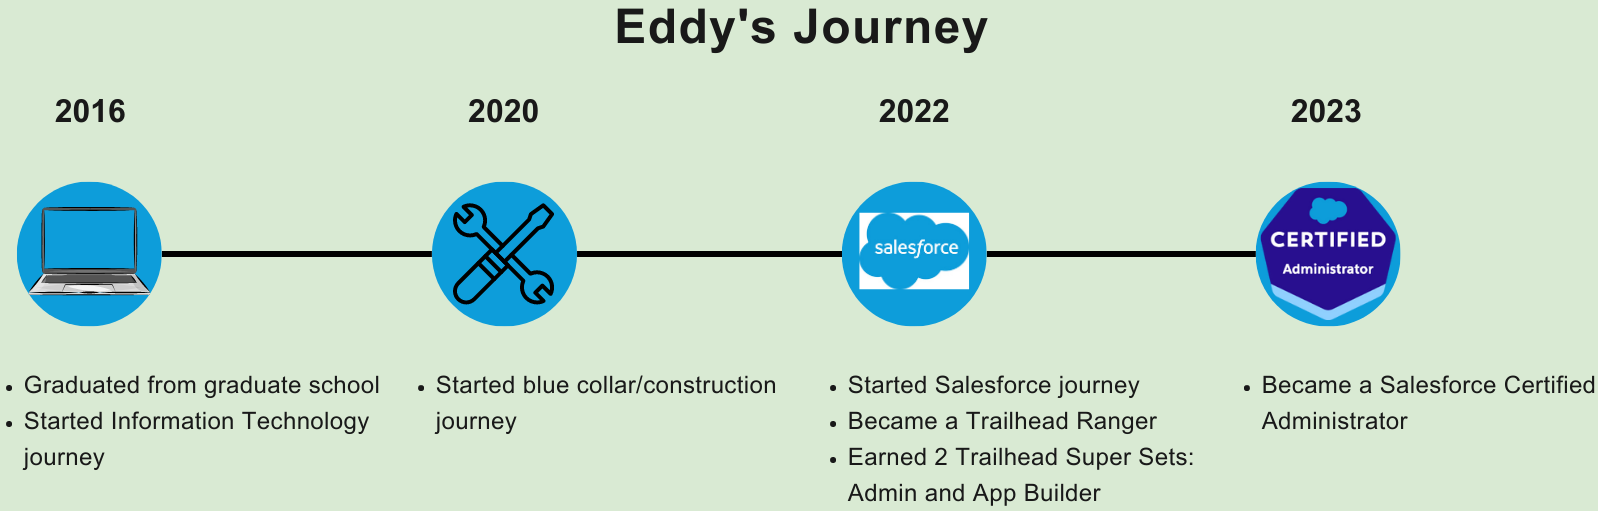
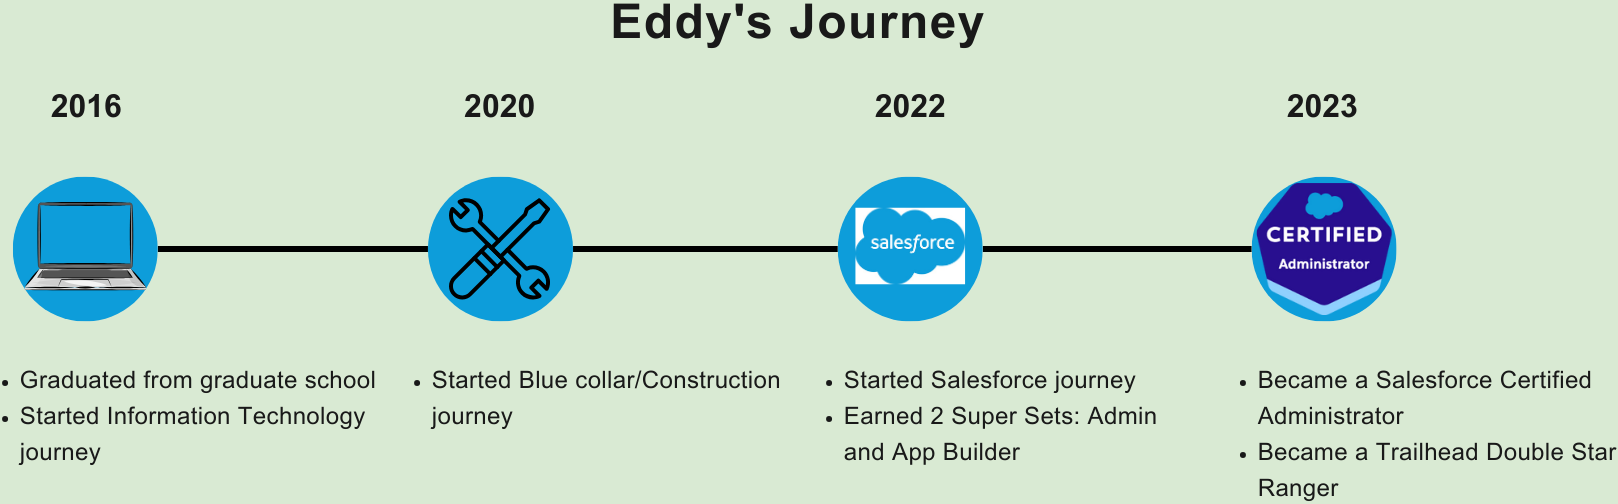
update Superbadge

diff --git a/force-app/main/default/lwc/education/education.html b/force-app/main/default/lwc/education/education.html
@@ -26,7 +26,7 @@
             </section>
             <div class="border-bottom"></div>
             <section>
-                <h3 class="collapsibleHeading">2. Superbadges&mdash;31</h3>
+                <h3 class="collapsibleHeading">2. Superbadges&mdash;34</h3>
                 <div class="collapsibleContent">
                     <p class="slds-text-align_left"><a href="https://salesforce.com/trailblazer/ChanEddyW" target="_blank" rel="noopener noreferrer">App Builder Super Set&mdash;13 <img src={iconURL_URLExternal} alt="External Link" aria-hidden="true"></a></p>
                     <div class="container-img">
@@ -70,8 +70,11 @@
                         <img src={imageURL_badgeTrailheadSuperbadge002} alt="Superbadge" class="img-badge">
                         <img src={imageURL_badgeTrailheadSuperbadge001} alt="Superbadge" class="img-badge">
                     </div>
-                    <p class="slds-text-align_left"><a href="https://salesforce.com/trailblazer/ChanEddyW" target="_blank" rel="noopener noreferrer">Other Superbadges&mdash;3 <img src={iconURL_URLExternal} alt="External Link" aria-hidden="true"></a></p>
+                    <p class="slds-text-align_left"><a href="https://salesforce.com/trailblazer/ChanEddyW" target="_blank" rel="noopener noreferrer">Other Superbadges&mdash;6 <img src={iconURL_URLExternal} alt="External Link" aria-hidden="true"></a></p>
                     <div class="container-img">
+                        <img src={imageURL_badgeTrailheadSuperbadge034} alt="Superbadge" class="img-badge">
+                        <img src={imageURL_badgeTrailheadSuperbadge033} alt="Superbadge" class="img-badge">
+                        <img src={imageURL_badgeTrailheadSuperbadge032} alt="Superbadge" class="img-badge">
                         <img src={imageURL_badgeTrailheadSuperbadge031} alt="Superbadge" class="img-badge">
                         <img src={imageURL_badgeTrailheadSuperbadge030} alt="Superbadge" class="img-badge">
                         <img src={imageURL_badgeTrailheadSuperbadge029} alt="Superbadge" class="img-badge">
@@ -83,7 +86,7 @@
                 <h3 class="collapsibleHeading">3. Diploma</h3>
                 <div class="collapsibleContent">
                     <div class="container-img">
-                        <img src={imageURL_diploma2016} alt="Diploma&mdash;Master of Science in Management Information Systems" class="img-screenshot">
+                        <img src={imageURL_diploma2016} alt="Diploma&mdash;Master of Science" class="img-screenshot">
                         <img src={imageURL_diploma2015} alt="Diploma&mdash;Bachelor of Science" class="img-screenshot slds-var-m-top_large">
                     </div>
                 </div>

diff --git a/force-app/main/default/lwc/aboutMe/aboutMe.html b/force-app/main/default/lwc/aboutMe/aboutMe.html
@@ -27,9 +27,7 @@
                 <h3 class="collapsibleHeading">1. What I Have Done So Far In My Salesforce Journey</h3>
                 <div class="collapsibleContent">
                     <ul class="slds-list_dotted">
-                        <li>Earned <a href="https://salesforce.com/trailblazer/ChanEddyW" target="_blank" rel="noopener noreferrer">31 Superbadges <img src={iconURL_URLExternal} alt="External Link" aria-hidden="true"></a></li>
-                        <ul class="slds-list_dotted circle">
-                        </ul>
+                        <li>Earned <a href="https://salesforce.com/trailblazer/ChanEddyW" target="_blank" rel="noopener noreferrer">34 Superbadges <img src={iconURL_URLExternal} alt="External Link" aria-hidden="true"></a> including 2 Super Sets: Admin and App Builder</li>
                         <li>Performed well on the Salesforce Administrator exam with an overall result of &sim;94&#37; &#40;answered &sim;57&#47;60 scored questions correctly&#41; on my 1st attempt</li>
                         <li>Worked on <a href="/project-salesforce">Salesforce Projects</a></li>
                     </ul>

diff --git a/force-app/main/default/lwc/education/education.js b/force-app/main/default/lwc/education/education.js
@@ -40,6 +40,9 @@ export default class Education extends LightningElement {
     imageURL_badgeTrailheadSuperbadge029 = IMAGES + '/badgeTrailheadSuperbadge029.webp';
     imageURL_badgeTrailheadSuperbadge030 = IMAGES + '/badgeTrailheadSuperbadge030.webp';
     imageURL_badgeTrailheadSuperbadge031 = IMAGES + '/badgeTrailheadSuperbadge031.webp';
+    imageURL_badgeTrailheadSuperbadge032 = IMAGES + '/badgeTrailheadSuperbadge032.webp';
+    imageURL_badgeTrailheadSuperbadge033 = IMAGES + '/badgeTrailheadSuperbadge033.webp';
+    imageURL_badgeTrailheadSuperbadge034 = IMAGES + '/badgeTrailheadSuperbadge034.webp';
 
     buttonBackToTop;
     collapsibleHeading;

diff --git a/force-app/main/default/lwc/hero/hero.js b/force-app/main/default/lwc/hero/hero.js
@@ -3,7 +3,7 @@ import IMAGES from '@salesforce/resourceUrl/Images';
 
 export default class Hero extends LightningElement {
     imageURL_myTrailmoji = IMAGES + '/myTrailmoji.png';
-    imageURL_badgeTrailheadRanger = IMAGES + '/badgeTrailheadRanger.png';
+    imageURL_badgeTrailheadRanger = IMAGES + '/badgeTrailheadRangerStarDouble.png';
     imageURL_badgeTrailheadSuperSetAdmin = IMAGES + '/badgeTrailheadSuperSetAdmin.webp';
     imageURL_badgeTrailheadSuperSetAppBuilder = IMAGES + '/badgeTrailheadSuperSetAppBuilder.webp';
     imageURL_badgeCertAdmin = IMAGES + '/2021-03_Badge_SF-Certified_Administrator_500x490px.png';

diff --git a/force-app/main/default/lwc/navMenu/navMenu.js b/force-app/main/default/lwc/navMenu/navMenu.js
@@ -5,7 +5,7 @@ import ICONS from '@salesforce/resourceUrl/Icons';
 import IMAGES from '@salesforce/resourceUrl/Images';
 
 export default class NavMenu extends LightningElement {
-	imageURL_photo = IMAGES + '/pfpmaker2022101gRanger.jpeg';
+	imageURL_photo = IMAGES + '/pfpmaker2022101gRangerStarDouble.png';
 
     // Declare the currentPageReference variable in order to track it
     currentPageReference;
